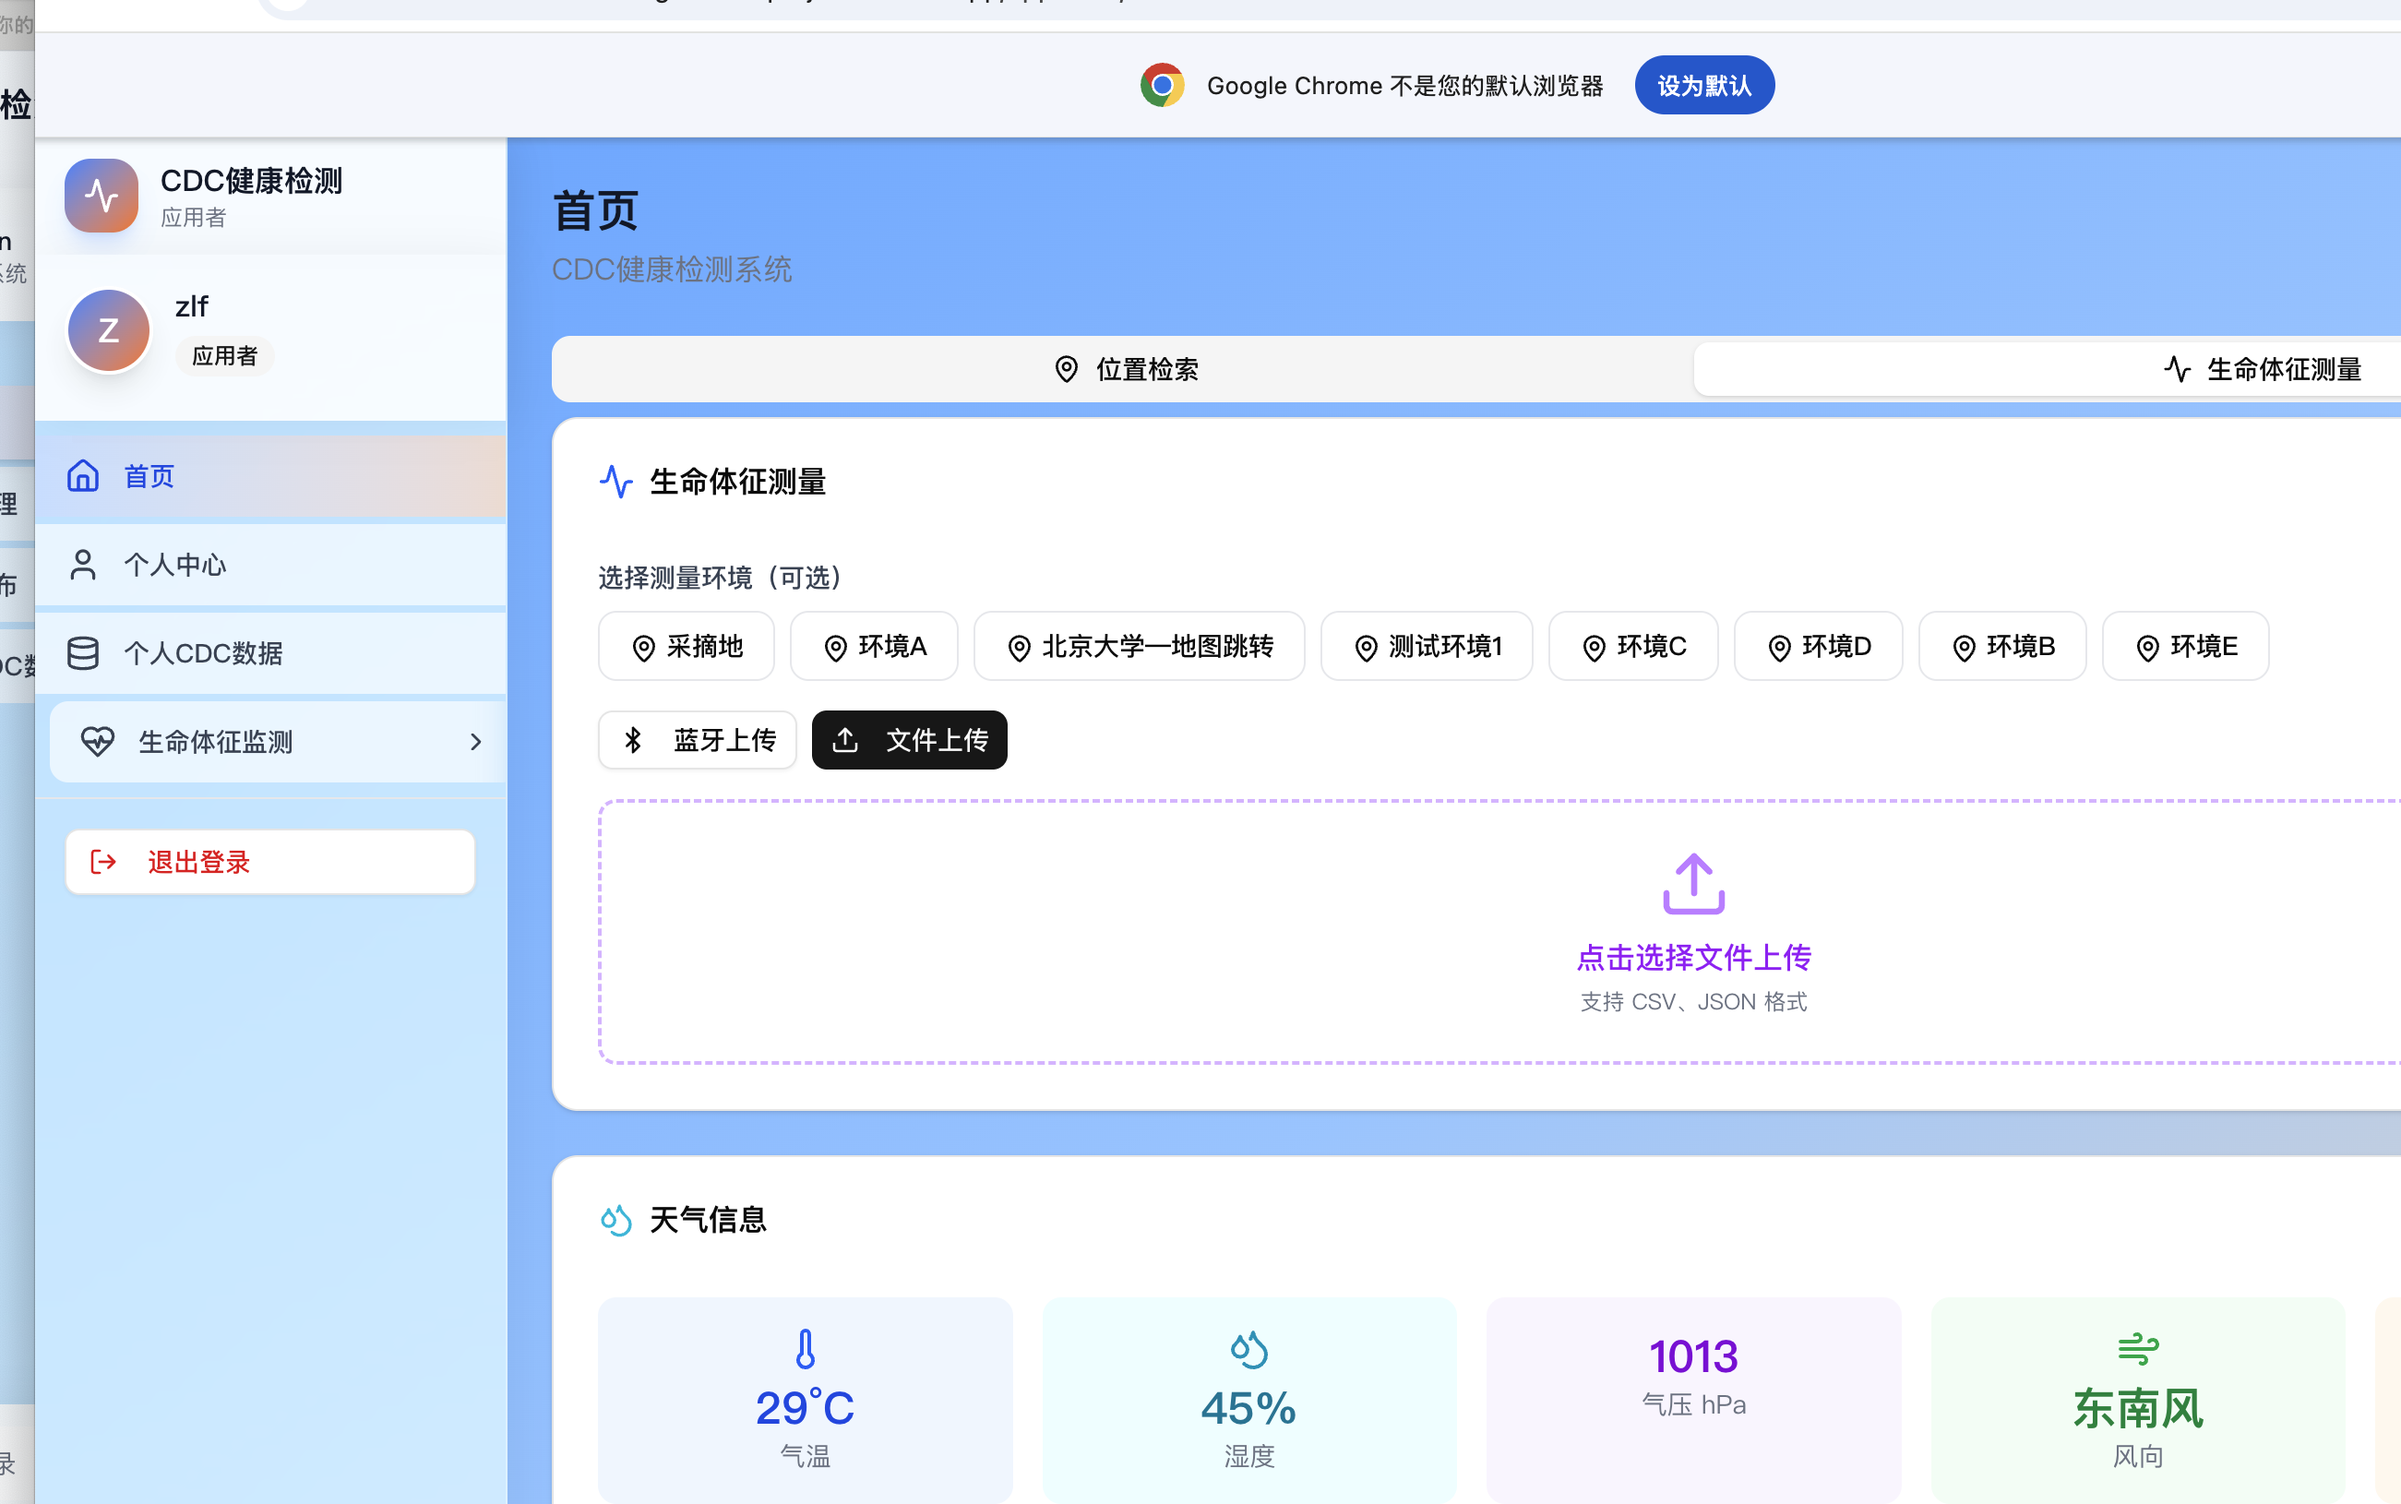
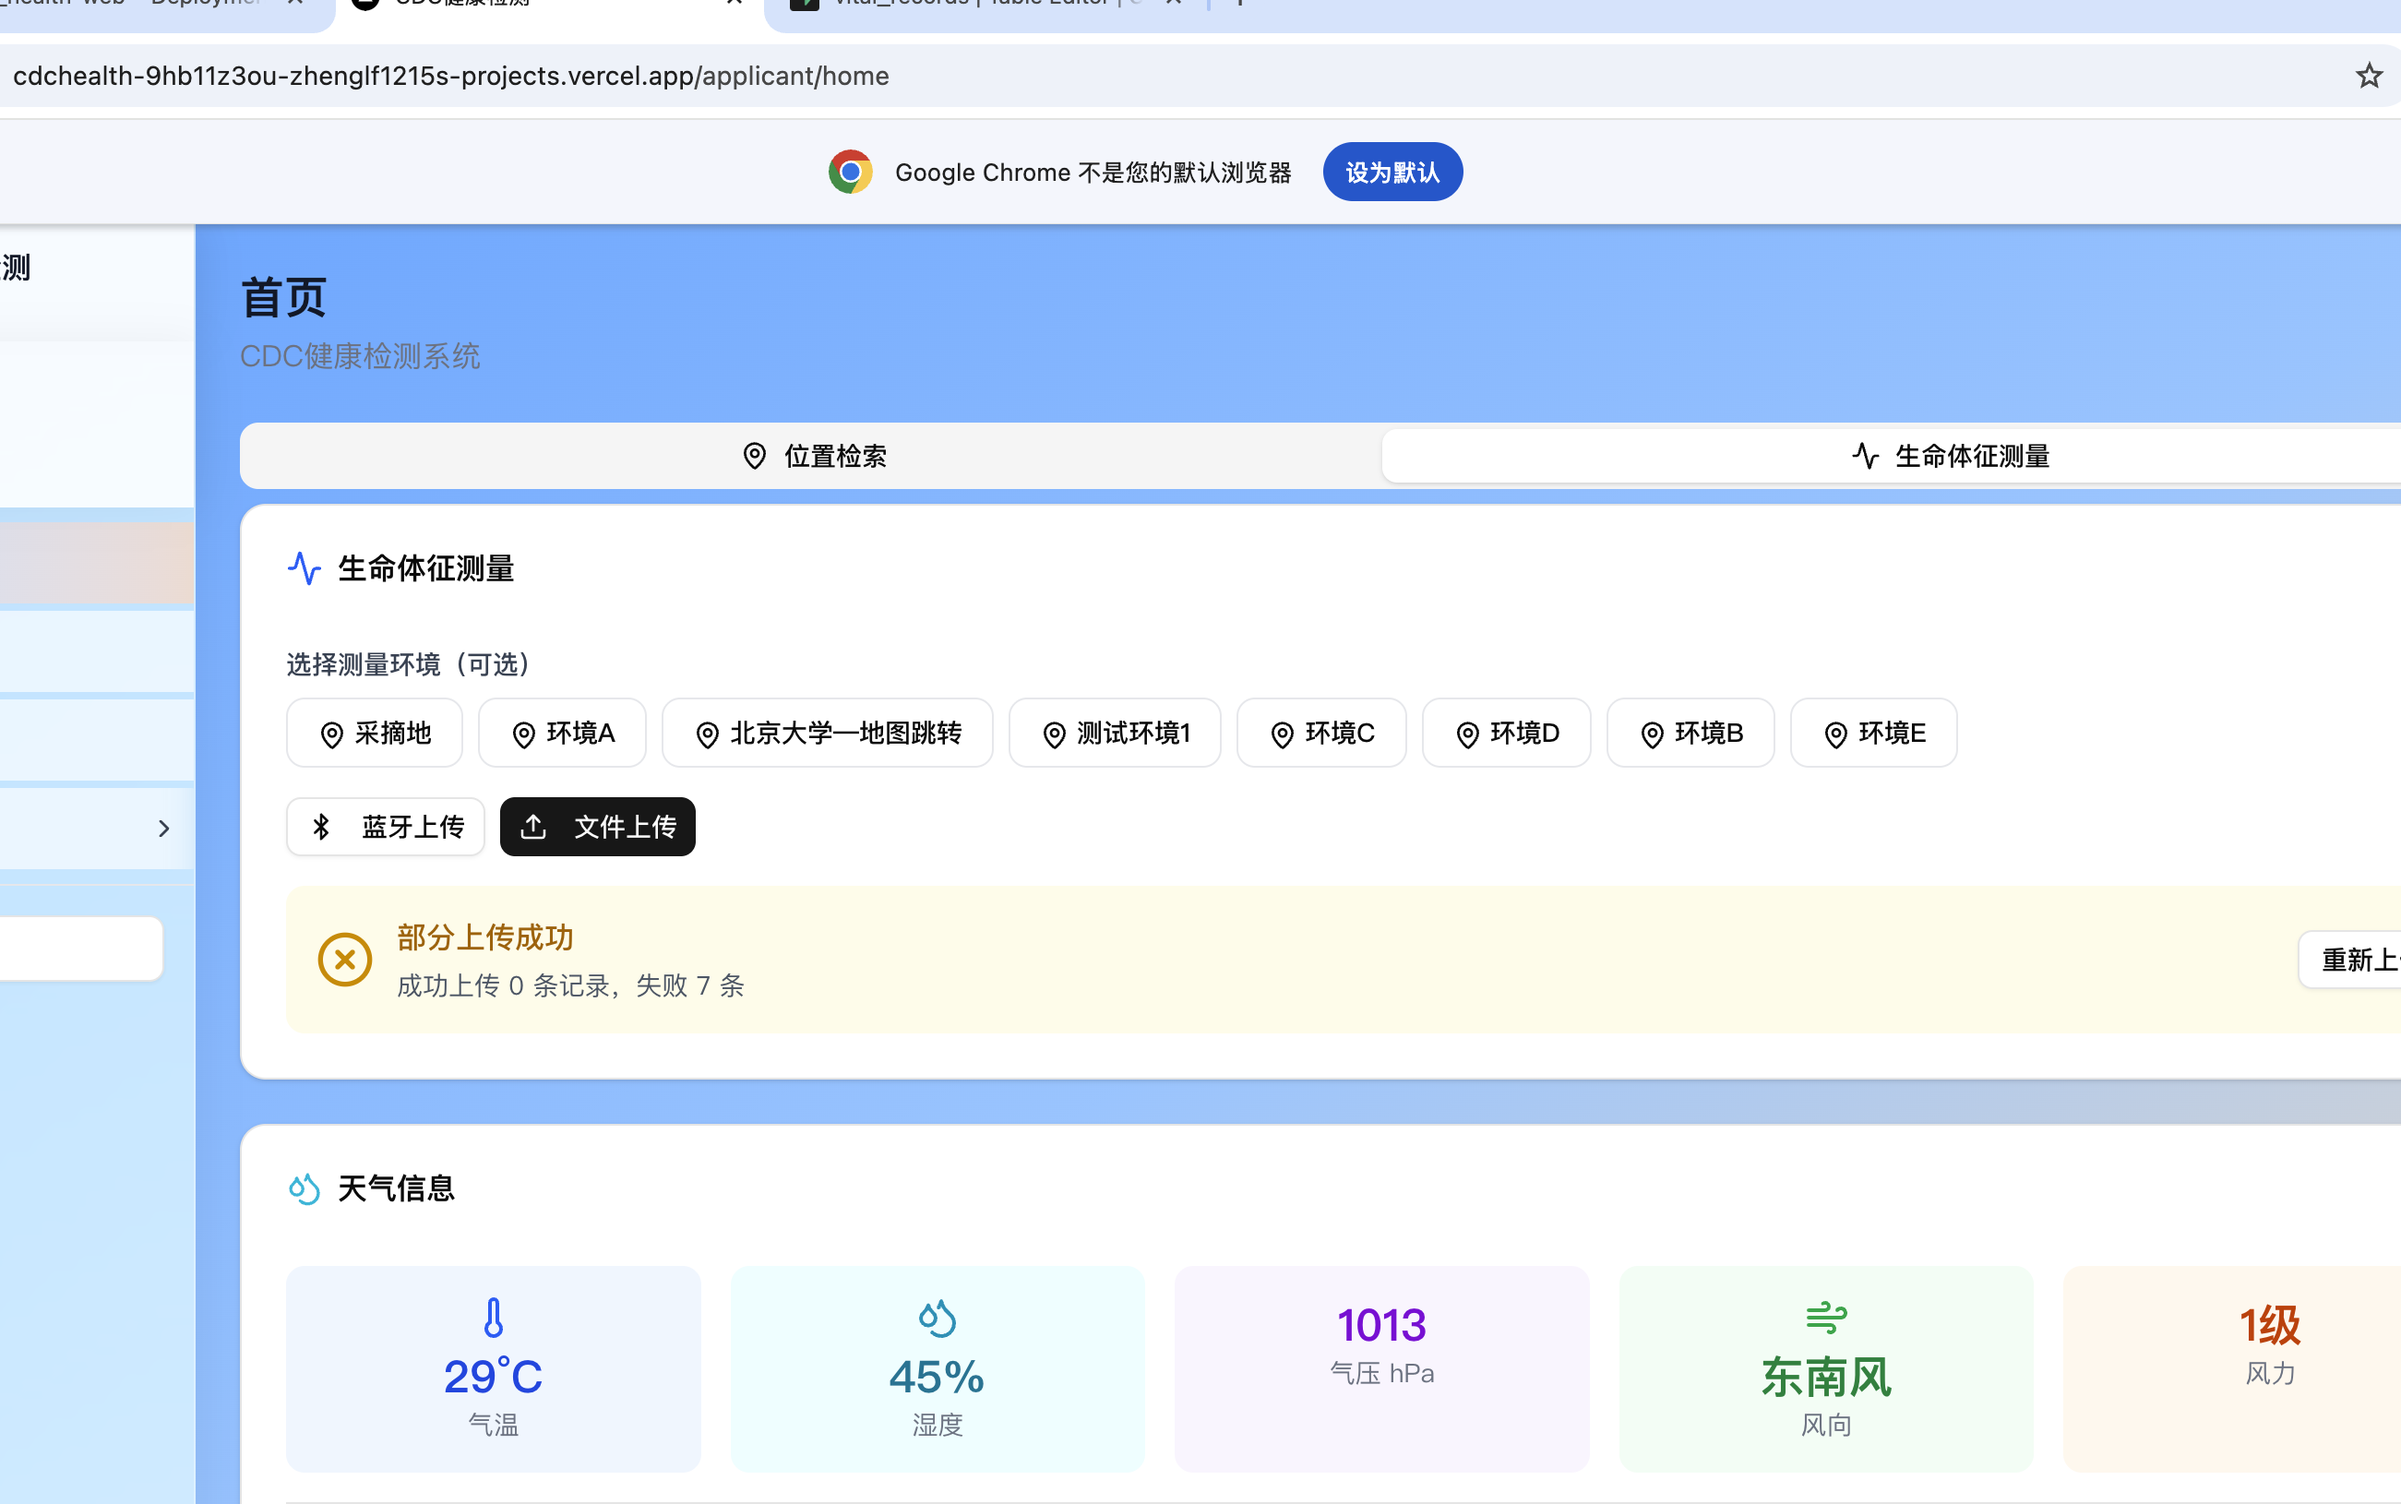
fix: 添加详细错误日志帮助排查上传失败

diff --git a/src/app/applicant/home/page.tsx b/src/app/applicant/home/page.tsx
@@ -485,9 +485,12 @@ export default function ApplicantHomePage() {
               hr: filePreview.hr[i]?.value || 0
             };
           } else {
+            const errorText = await res.text();
+            console.error(`第${i+1}条上传失败:`, res.status, errorText);
             failedCount++;
           }
-        } catch {
+        } catch (err) {
+          console.error(`第${i+1}条上传异常:`, err);
           failedCount++;
         }
 
@@ -504,7 +507,7 @@ export default function ApplicantHomePage() {
       
       const message = failedCount === 0 
         ? `上传成功！共 ${successCount} 条数据已添加到生命体征图表` 
-        : `上传完成：成功 ${successCount} 条，失败 ${failedCount} 条`;
+        : `上传完成：成功 ${successCount} 条，失败 ${failedCount} 条。请检查浏览器控制台获取详细错误`;
       setUploadMessage(message);
       
       // 添加浏览器alert反馈
